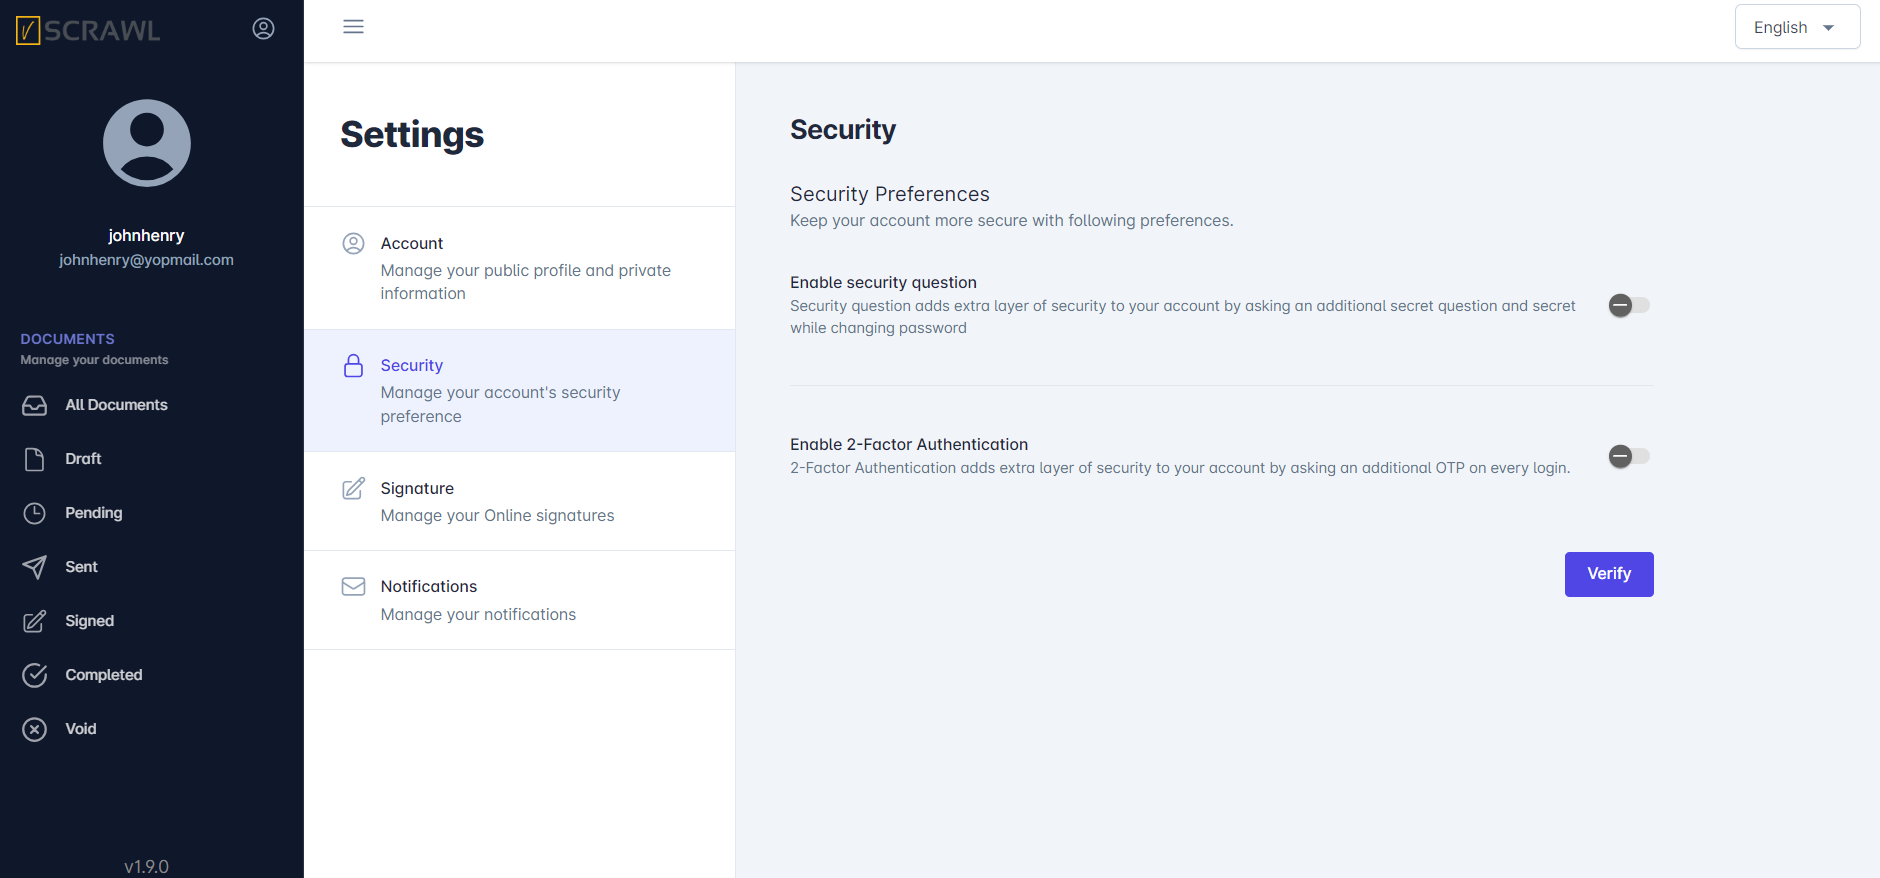
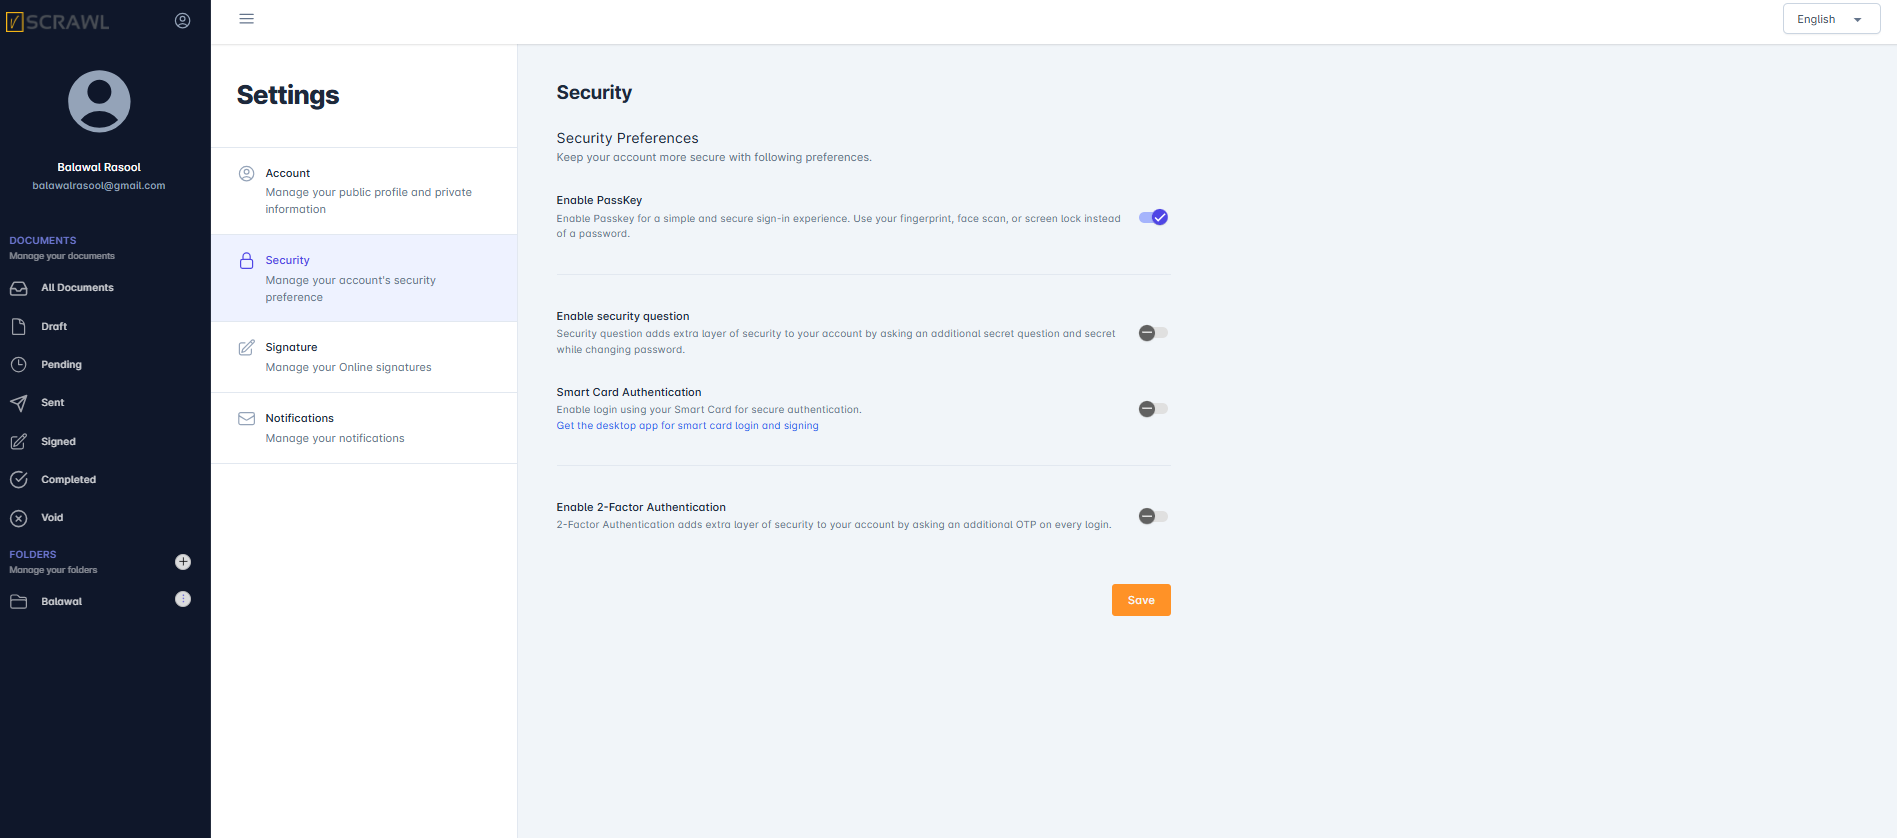
Deployed 63538b6 with MkDocs version: 1.6.1

diff --git a/signin/index.html b/signin/index.html
@@ -344,9 +344,18 @@
 </li>
       
         <li class="md-nav__item">
-  <a href="#sign-upsign-in-with-the-smart-card-using-the-smartxipher-app" class="md-nav__link">
+  <a href="#signup-sign-in-with-the-smart-card-using-the-smartxipher-app" class="md-nav__link">
     <span class="md-ellipsis">
-      Sign Up/Sign In with the Smart Card Using the SmartXipher App
+      Signup / Sign-in with the Smart Card Using the SmartXipher App
+    </span>
+  </a>
+  
+</li>
+      
+        <li class="md-nav__item">
+  <a href="#sign-in-using-passkey" class="md-nav__link">
+    <span class="md-ellipsis">
+      Sign-in Using Passkey
     </span>
   </a>
   
@@ -522,9 +531,18 @@
 </li>
       
         <li class="md-nav__item">
-  <a href="#sign-upsign-in-with-the-smart-card-using-the-smartxipher-app" class="md-nav__link">
+  <a href="#signup-sign-in-with-the-smart-card-using-the-smartxipher-app" class="md-nav__link">
     <span class="md-ellipsis">
-      Sign Up/Sign In with the Smart Card Using the SmartXipher App
+      Signup / Sign-in with the Smart Card Using the SmartXipher App
+    </span>
+  </a>
+  
+</li>
+      
+        <li class="md-nav__item">
+  <a href="#sign-in-using-passkey" class="md-nav__link">
+    <span class="md-ellipsis">
+      Sign-in Using Passkey
     </span>
   </a>
   
@@ -564,10 +582,14 @@
 <h2 id="signup-sign-in-using-google-authentication-or-keycloak">Signup / Sign-in using Google Authentication or Keycloak</h2>
 <p>You can sign in using either <strong>Google authentication</strong> or <strong>Key cloak authentication</strong>. On the login page, simply choose <strong>“Continue with Google”</strong> and select your Google account. If prompted, enter your Google password.</p>
 <p>Alternatively, if your organization uses Key cloak, click <strong>“Continue with Key cloak”</strong> and enter your Key cloak username and password. Once authenticated, you will be redirected to the <strong>vScrawl</strong> <strong>Dashboard</strong>.</p>
-<h2 id="sign-upsign-in-with-the-smart-card-using-the-smartxipher-app">Sign Up/Sign In with the Smart Card Using the SmartXipher App</h2>
+<h2 id="signup-sign-in-with-the-smart-card-using-the-smartxipher-app">Signup / Sign-in with the Smart Card Using the SmartXipher App</h2>
 <p>vScrawl provides secure authentication through <strong>Smart Card login</strong> using the <strong>SmartXipher App</strong>. This ensures strong identity verification and protects access to your account.</p>
 <p>When a user chooses to sign in with a <strong>Smart Card</strong>, the system verifies their <strong>digital certificate</strong> through <strong>SmartXipher</strong>. Once the <strong>certificate</strong> is validated, the user is securely logged into their <strong>dashboard.</strong></p>
 <p><img alt="vScrawl Signin" src="../images/smart-card-login.png" /></p>
+<h2 id="sign-in-using-passkey">Sign-in Using Passkey</h2>
+<p>To sign in to vScrawl using a passkey, first open the login page and enter your registered email address, then click <strong>“Login with Passkey.”</strong> A dialog titled <strong>“Sign in using a saved passkey”</strong> will appear, allowing you to choose how you want to authenticate. You can select <strong>Windows Hello or an external security key</strong> to sign in using your device’s fingerprint, face recognition, PIN, or a USB security key. </p>
+<p>Alternatively, you can choose <strong>Use a phone or tablet</strong>, which will display a QR code on the screen; scan this QR code using your mobile phone and approve the sign-in using your device’s biometric authentication or screen lock. Once the authentication is successfully completed, you will be automatically logged in to your vScrawl account without entering a password.</p>
+<p><img alt="vScrawl Signin" src="../images/pass-key-login.png" /></p>
 
 
 

diff --git a/settings/index.html b/settings/index.html
@@ -763,8 +763,10 @@
 <h3 id="security-settings">Security Settings</h3>
 <ul>
 <li>Here you can set the security settings for your account by setting up:<br />
+    Enable PassKey
     Enable Security Question<br />
-    Enable 2-Factor Authentication</li>
+    Enable 2-Factor Authentication
+    Enable Smart Card Authentication</li>
 </ul>
 <p><img alt="vScrawl Settings" src="../images/security-settings.png" /></p>
 <h3 id="signature-settings">Signature Settings</h3>
@@ -812,8 +814,13 @@
 <p>Here you can see the <strong>organization details</strong>:<br />
 <strong>Organization Name</strong><br />
 <strong>Owner Name</strong><br />
-<strong>Owner Email</strong></p>
+<strong>Owner Email</strong>
+<strong>Date Format</strong></p>
 <p><img alt="vScrawl Settings" src="../images/organization-details.png" /></p>
+<blockquote>
+<p>[!NOTE]
+Only the <strong>Organization Owner</strong> has the authority to update the organization details.</p>
+</blockquote>
 <h3 id="roles">Roles</h3>
 <p>Here you can <strong>add roles</strong> with different <strong>permissions</strong> and will <strong>assign that role for inviting a new user</strong> to your <strong>organization.</strong> The <strong>roles</strong> you will create will appear hear in the list. You can search different <strong>roles</strong> by using the <strong>search</strong> option.</p>
 <p><img alt="vScrawl Settings" src="../images/roles-organization.png" /></p>
@@ -848,12 +855,14 @@
 <p><img alt="vScrawl Settings" src="../images/inviting-user-in-organization.png" /></p>
 <h3 id="business-apps">Business Apps</h3>
 <ul>
-<li>You can add Business App or any third party app with vScrawl by adding proper details of the app like:<br />
-<strong>Client ID</strong><br />
-<strong>App name</strong><br />
-<strong>Description</strong><br />
-<strong>Call back URL</strong><br />
-<strong>Status</strong></li>
+<li>
+<p>You can add Business App or any third party app with vScrawl by adding proper details of the app like:  </p>
+<p><strong>Client ID</strong> - A unique identifier generated for the application to authenticate with vScrawl.</p>
+<p><strong>App name</strong> - The display name of the business or third-party application.</p>
+<p><strong>Description</strong> - A brief summary describing the purpose of the application.</p>
+<p><strong>Call back URL</strong>  The URL where vScrawl redirects the user after successful authentication.</p>
+<p><strong>Status</strong> - Indicates whether the application is active or inactive.</p>
+</li>
 </ul>
 <p><img alt="vScrawl Settings" src="../images/business-app-in-organization.png" /></p>
 <p><img alt="vScrawl Settings" src="../images/business-app-detail-in-organization.png" /></p>

diff --git a/workflows/index.html b/workflows/index.html
@@ -730,6 +730,10 @@
 </li>
 </ul>
 <p><img alt="vScrawl Documents" src="../images/doc-prep-screen-with-filled-annations-2.png" /></p>
+<blockquote>
+<p>[!NOTE]
+<strong>Field Requirements:</strong> Fields with the <strong>Required Toggle (Right Panel)</strong> set to <strong>Enabled</strong> must be filled to sign; otherwise, all fields are optional.</p>
+</blockquote>
 <ul>
 <li>For the <strong>New User</strong> You have to <strong>Choose how to create your signature:</strong> Upload an <strong>Image,</strong> <strong>Draw, or use Text.</strong></li>
 </ul>
